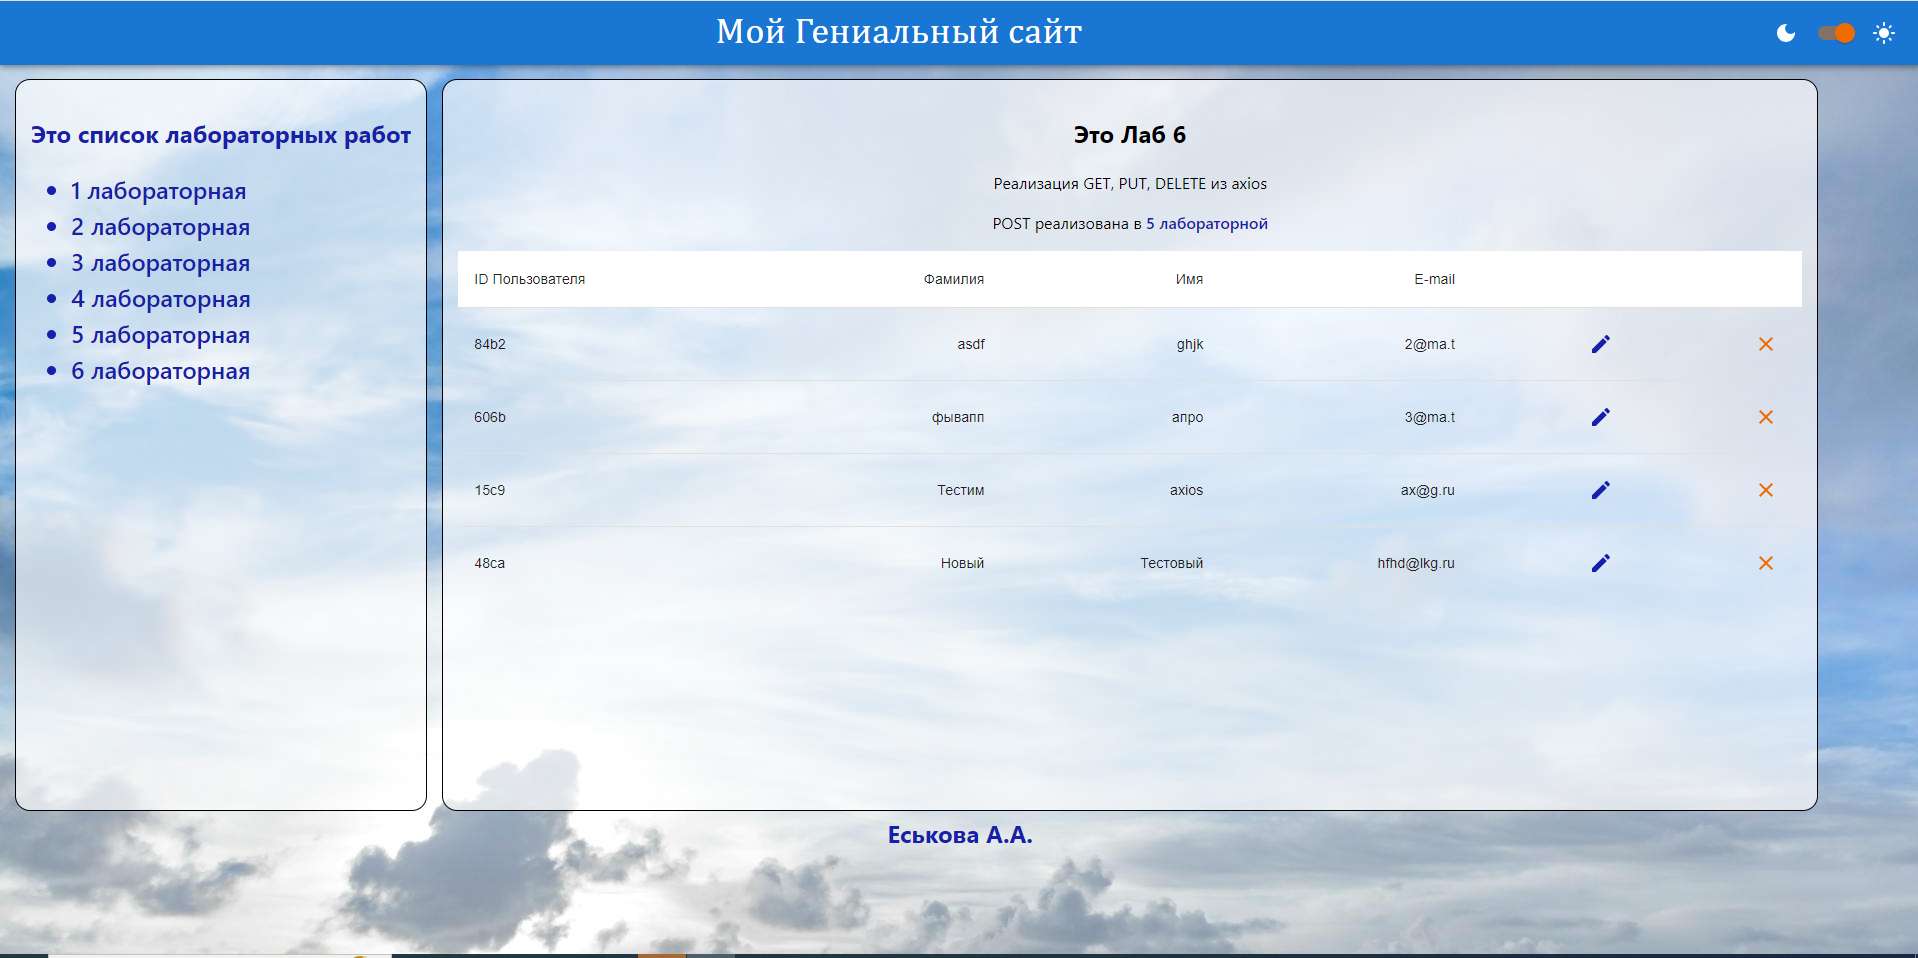
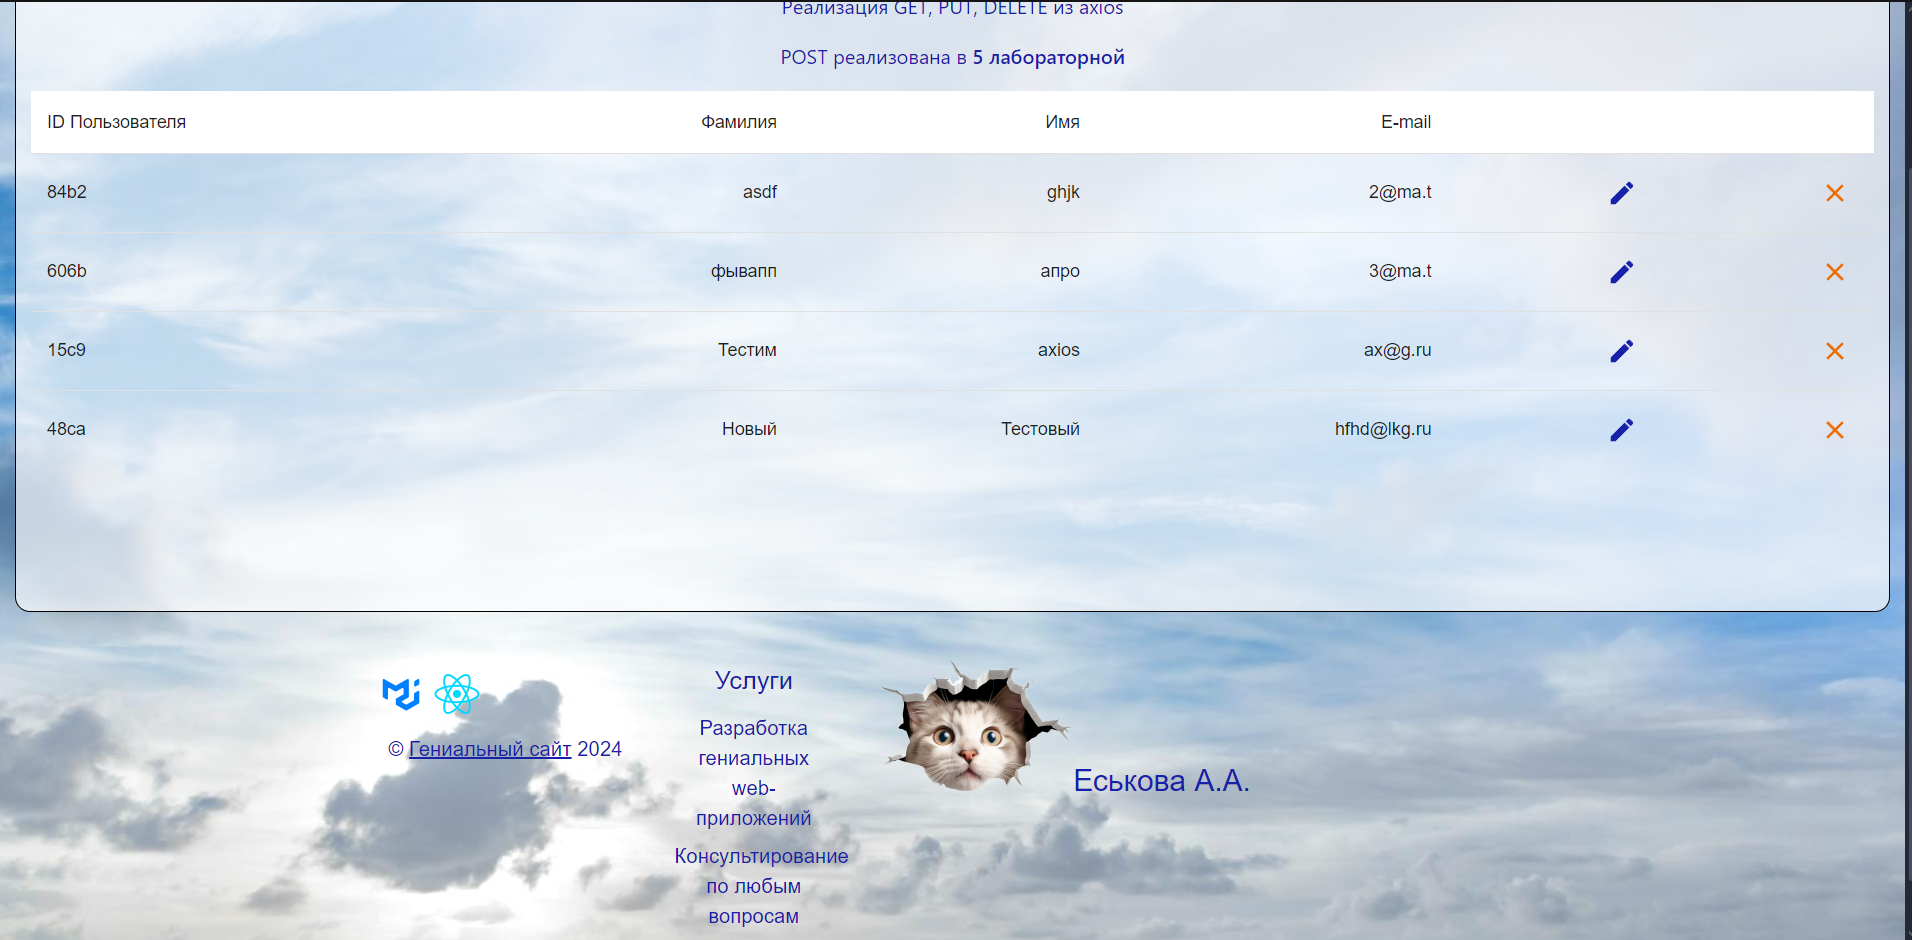
Лабораторная 7, меню, адаптив, футер

diff --git a/src/components/Footer.jsx b/src/components/Footer.jsx
@@ -1,11 +1,91 @@
-import React from "react"
-import './comp.css'
+import * as React from 'react';
+import Box from '@mui/material/Box';
+import Grid from '@mui/material/Grid';
+import Link from '@mui/material/Link';
+import Container from '@mui/material/Container';
+import Typography from '@mui/material/Typography';
+import TextField from '@mui/material/TextField';
+
+function Copyright() {
+    return (
+        <React.Fragment>
+            {'© '}
+            <Link color="inherit" href="http://localhost:5173/">
+                Гениальный сайт
+            </Link>{' '}
+            {new Date().getFullYear()}
+        </React.Fragment>
+    );
+}
+
+const iconStyle = {
+    width: 48,
+    height: 48,
+    display: 'flex',
+    justifyContent: 'center',
+    alignItems: 'center',
+    mr: 1,
+    '&:hover': {
+        bgcolor: 'warning.dark',
+    },
+};
+
 
 const Footer = () => {
     return (
-        <div className="footer_main">
-            <h2>Еськова А.А.</h2>
-        </div>
-    )
+        <Typography
+            component="footer"
+            sx={{ display: 'flex' }}
+        >
+            <Container sx={{ my: 8, display: 'flex' }}>
+                <Grid container spacing={5}>
+                    <Grid item xs={6} sm={4} md={3}>
+                        <Grid
+                            container
+                            direction="column"
+                            justifyContent="flex-end"
+                            spacing={2}
+                            sx={{ height: 120 }}
+                        >
+                            <Grid item sx={{ display: 'flex' }}>
+                                <Box component="a" href="https://mui.com/" sx={iconStyle}>
+                                    <img
+                                        src="\src\images\logo1.png"
+                                        alt="MUI"
+                                    />
+                                </Box>
+                                <Box component="a" href="https://react.dev/" sx={iconStyle}>
+                                    <img src="\src\images\logo3.png" alt="React" />
+                                </Box>
+                            </Grid>
+                            <Grid item>
+                                <Copyright />
+                            </Grid>
+                        </Grid>
+                    </Grid>
+                    <Grid item xs={6} sm={4} md={2}>
+                        <Typography variant="h6" marked="left" gutterBottom>
+                            Услуги
+                        </Typography>
+                        <Box component="ul" sx={{ m: 0, listStyle: 'none', p: 0 }}>
+                            <Box component="li" sx={{ py: 0.5 }}>
+                                <a href="https://cs6.pikabu.ru/post_img/2014/06/30/6/1404117274_1958249232.jpg">Разработка гениальных web-приложений</a>
+                            </Box>
+                            <Box component="li" sx={{ py: 0.5 }}>
+                                <a href="https://pulse-image-post.cdn-tinkoff.ru/c693e8b1-2954-41f7-8f71-b3ed05fc36a7-small.jpeg">Консультирование по любым вопросам</a>
+                            </Box>
+                        </Box>
+                    </Grid>
+                    <Grid item>
+                        <Typography variant="h5" component='h3'>
+                            <img src="\src\images\cat (2).png" alt="cutieCat" />
+                            {'Еськова А.А. '}
+                        </Typography>
+                    </Grid>
+                </Grid>
+            </Container>
+        </Typography>
+    );
 }
+
 export default Footer

diff --git a/src/components/menu_drawer.jsx b/src/components/menu_drawer.jsx
@@ -69,6 +69,14 @@ export default function TemporaryDrawer() {
                         <ListItemText primary="Лабораторная 6" />
                     </ListItemButton>
                 </ListItem>
+                <ListItem key="lab7" disablePadding>
+                    <ListItemButton component={RouterLink} to="/lab7">
+                        <ListItemIcon>
+                            <InboxIcon />
+                        </ListItemIcon>
+                        <ListItemText primary="Лабораторная 7" />
+                    </ListItemButton>
+                </ListItem>
             </List>
         </Box>
     );

diff --git a/src/components/Content.jsx b/src/components/Content.jsx
@@ -7,6 +7,7 @@ import Lab4 from "../pages/lab4";
 import Lab5 from "../pages/lab5";
 import Lab6 from "../pages/lab6";
 import User_update from "./user_update";
+import Lab7 from "../pages/lab7";
 
 
 const Content = () => {
@@ -22,6 +23,7 @@ const Content = () => {
           <Route path="/lab5" element={<Lab5 />} />
           <Route path="/lab6" element={<Lab6 />} />
           <Route path="/user_update/:id" target ="_blank" element={<User_update />} />
+          <Route path="/lab7" element={<Lab7 />} />
         </Routes>
       </div>
 

diff --git a/src/components/Header.jsx b/src/components/Header.jsx
@@ -5,6 +5,7 @@ import { ThemeContext } from "../providers/ThemeProvider";
 import { DarkMode, LightMode } from "@mui/icons-material";
 import TemporaryDrawer from "./menu_drawer"
 
+
 const Header = () => {
   const [theme, setTheme] = useContext(ThemeContext);
 
@@ -16,6 +17,7 @@ const Header = () => {
       <AppBar position="static">
         <Toolbar>
         <TemporaryDrawer/>
+
           <Typography fontSize={36} flexGrow={2} fontFamily={"Cambria Math"}>
             Мой Гениальный сайт
           </Typography>

diff --git a/src/components/user_table.jsx b/src/components/user_table.jsx
@@ -44,7 +44,7 @@ const User_table = () => {
     };
     return (
         <div>
-            <TableContainer style={{ maxHeight: 400, maxWidth:370 }}>
+            <TableContainer style={{ maxHeight: 400}}>
                 <Table stickyHeader>
                     <TableHead>
                         <TableRow>
@@ -75,6 +75,7 @@ const User_table = () => {
                     </TableBody>
                 </Table>
             </TableContainer>
+            
         </div>
     );
 }

diff --git a/src/pages/lab7.jsx b/src/pages/lab7.jsx
@@ -1,0 +1,14 @@
+import React from "react";
+import SmartUserTable from "../components/smartusertable";
+
+
+const Lab7 = () => {
+    return (
+        <div>
+            <h2>Это Лаб 7</h2>
+            <p>react-table</p>
+            <SmartUserTable />
+        </div>
+    );
+};
+export default Lab7;

diff --git a/src/components/smartusertable.jsx b/src/components/smartusertable.jsx
@@ -1,0 +1,15 @@
+import React from 'react'
+
+
+
+
+function SmartUserTable() {
+
+  return (
+    <div>
+        <p>Ниче не получается</p>
+    </div>
+  );
+}
+
+export default SmartUserTable

diff --git a/README.md b/README.md
@@ -1,5 +1,5 @@
-На всякий пожарный прикрепила скриншот Example.png<br>
-Лабораторная 6, axios + Лабораторная 7, меню и адаптивка
+На всякий пожарный прикрепила скриншот Example.png
+Лабораторная 7, меню, адаптивка, футер
 
 
 WARNING! This is test project for my uni
